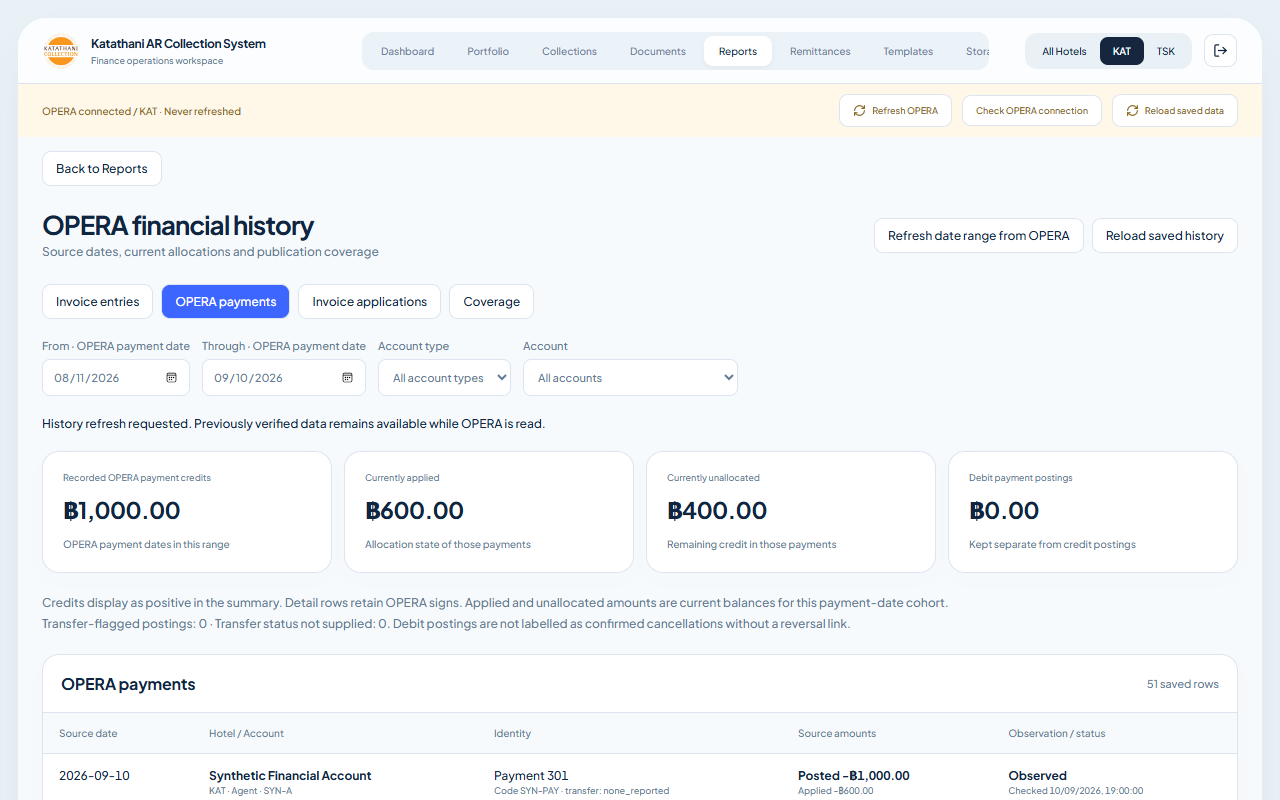
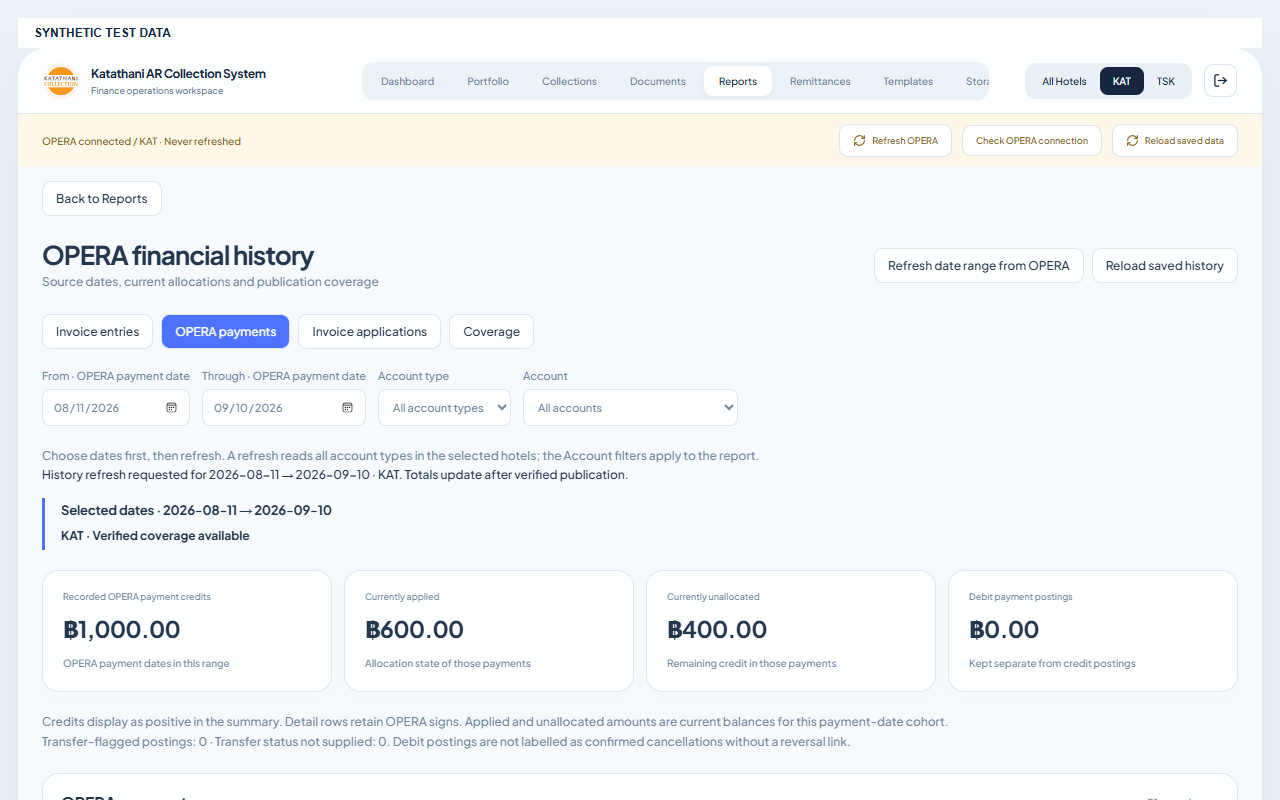
fix: show date-specific financial refresh status and reload published totals

diff --git a/src/reports/FinancialReports.tsx b/src/reports/FinancialReports.tsx
@@ -8,6 +8,8 @@ type Run={id:string;hotel:string;from:string;to:string;status:string;finishedAt:
 const labels:Record<View,string>={invoice_entries:'Invoice entries',payments:'OPERA payments',applications:'Invoice applications',coverage:'Coverage'};
 const amount=(value:string|null|undefined)=>value==null?'—':formatAmount(value);
 const stamp=(value:string|null|undefined)=>value?new Date(value).toLocaleString('en-GB',{timeZone:'Asia/Bangkok'}):'Not recorded';
+const activeRun=(run:Run)=>run.status==='queued'||run.status==='running';
+const runLabel=(run:Run)=>run.status==='queued'?'Queued':run.status==='running'?'Reading OPERA':run.status==='succeeded'?'Finished':'Failed';
 export interface FinancialReportContext {view:View;from:string;to:string;type:string;account:string}
 export default function FinancialReports({token,hotel,onBack,initialContext}:{token:string;hotel:string;onBack:()=>void;initialContext?:FinancialReportContext}){
  const [view,setView]=useState<View>(initialContext?.view??'payments'),[from,setFrom]=useState(initialContext?.from??calendarAdd(thaiToday(),-30)),[to,setTo]=useState(initialContext?.to??thaiToday()),[type,setType]=useState(initialContext?.type??''),[account,setAccount]=useState(initialContext?.account??''),[page,setPage]=useState(0),[revision,setRevision]=useState(0);
@@ -15,15 +17,23 @@ export default function FinancialReports({token,hotel,onBack,initialContext}:{to
  const auth=useRef(token);auth.current=token;const pending=useRef<{key:string;ids:Record<string,string>}|null>(null),previousHotel=useRef(hotel),alive=useRef(true),opened=useRef<string|null>(null);
  useEffect(()=>{alive.current=true;return()=>{alive.current=false;};},[]);
  async function read<T>(path:string,init:RequestInit={}):Promise<T>{const response=await fetch(path,{...init,headers:{Authorization:`Bearer ${auth.current}`,...init.headers}});if(!response.ok)throw Error(response.status===401||response.status===403?'Your session cannot access financial history.':'Financial history is unavailable. The last successful publication is retained.');return response.json() as Promise<T>;}
- useEffect(()=>{if(previousHotel.current!==hotel){previousHotel.current=hotel;setAccount('');setPage(0);}},[hotel]);
+ useEffect(()=>{if(previousHotel.current!==hotel){previousHotel.current=hotel;setAccount('');setPage(0);}setNotice('');},[hotel,from,to]);
  useEffect(()=>{const controller=new AbortController();setOptionsError('');void(async()=>{const all:FinancialAccountOption[]=[];for(let page=0;;page++){const q=new URLSearchParams({page:String(page),limit:'200'});if(hotel!=='All')q.set('hotel',hotel);const result=await read<FinancialReport>('/api/financial/options?'+q,{signal:controller.signal});if(!Array.isArray(result.rows)||!Number.isSafeInteger(result.total)||!result.rows.length&&all.length<result.total)throw Error('Account options are incomplete.');all.push(...result.rows as FinancialAccountOption[]);if(all.length>=result.total)break;}if(!controller.signal.aborted)setOptions(all);})().catch(e=>{if(!controller.signal.aborted)setOptionsError(e instanceof Error?e.message:'Account options are unavailable.');});return()=>controller.abort();},[hotel,revision]);
  const sourceDateLabel=view==='payments'?'OPERA payment date':view==='coverage'?'source period':'OPERA invoice date';
  const invalid=!from||!to||from>to||(Date.parse(to)-Date.parse(from))/86400000>=366;
  useEffect(()=>{const controller=new AbortController();setData(null);setError('');if(invalid)return()=>controller.abort();const q=new URLSearchParams({from,to,page:String(page),limit:'50'});if(hotel!=='All')q.set('hotel',hotel);if(type)q.set('type',type);if(account){try{const [h,a]=JSON.parse(account);if(hotel!=='All'&&h!==hotel)return()=>controller.abort();q.set('hotel',h);q.set('account',a);}catch{return()=>controller.abort();}}void read<FinancialReport>(`/api/financial/${view}?${q}`,{signal:controller.signal}).then(result=>{if(!Array.isArray(result.rows)||!result.summary||!result.coverage)throw Error('Financial response is incomplete.');if(!controller.signal.aborted)setData(result);}).catch(e=>{if(!controller.signal.aborted)setError(e instanceof Error?e.message:'Financial history is unavailable.');});return()=>controller.abort();},[view,hotel,account,type,from,to,page,revision,invalid]);
- useEffect(()=>{const controller=new AbortController();let timer:ReturnType<typeof setTimeout>|undefined;let lastRun='';const refresh=async()=>{try{const next=await read<{enabled:boolean;running:boolean;runs:Run[]}>('/api/financial/status',{signal:controller.signal});if(controller.signal.aborted)return;if(!Array.isArray(next.runs))throw Error();setStatus(next);const marker=next.runs.map(r=>r.id+':'+r.status).join('|');if(lastRun&&lastRun!==marker&&!next.running)setRevision(n=>n+1);lastRun=marker;if(next.running)timer=setTimeout(refresh,15000);}catch{if(!controller.signal.aborted)setStatus(null);}};void refresh();return()=>{controller.abort();clearTimeout(timer);};},[revision]);
+ useEffect(()=>{const controller=new AbortController();let timer:ReturnType<typeof setTimeout>|undefined;let lastPublication:string|undefined;const refresh=async()=>{try{const next=await read<{enabled:boolean;running:boolean;runs:Run[]}>('/api/financial/status',{signal:controller.signal});if(controller.signal.aborted)return;if(!Array.isArray(next.runs))throw Error();setStatus(next);
+  // A completed period can be published while unrelated work remains queued.
+  const marker=next.runs.filter(r=>!activeRun(r)).map(r=>r.id+':'+r.status+':'+r.finishedAt).sort().join('|');
+  if(lastPublication!==undefined&&lastPublication!==marker)setRevision(n=>n+1);lastPublication=marker;if(next.running)timer=setTimeout(refresh,15000);
+ }catch{if(!controller.signal.aborted)setStatus(null);}};void refresh();return()=>{controller.abort();clearTimeout(timer);};},[revision]);
+ const selectedHotels=hotel==='All'?['KAT','TSK']:[hotel];
+ const selectedRuns=selectedHotels.map(h=>({hotel:h,run:status?.runs.find(r=>r.hotel===h&&r.from<=from&&r.to>=to)}));
+ const allSelectedActive=!invalid&&selectedRuns.every(({run})=>run&&activeRun(run));
+ const otherActive=status?.runs.filter(r=>activeRun(r)&&!selectedRuns.some(s=>s.run?.id===r.id))??[];
  async function refreshSource(reason:'backfill'|'open'='backfill'){
-  if(busy||invalid)return;const key=JSON.stringify([hotel,from,to,reason]);if(pending.current?.key!==key)pending.current={key,ids:{}};setBusy(true);setNotice('');setError('');
-  try{for(const h of hotel==='All'?['KAT','TSK']:[hotel]){const commandId=pending.current.ids[h]??crypto.randomUUID();pending.current.ids[h]=commandId;await read('/api/financial/refresh',{method:'POST',headers:{'Content-Type':'application/json'},body:JSON.stringify({commandId,hotel:h,reason,from,to})});}if(alive.current){pending.current=null;setNotice('History refresh requested. Previously verified data remains available while OPERA is read.');setRevision(n=>n+1);}}catch(e){if(alive.current)setError(e instanceof Error?e.message:'Refresh could not be confirmed. Retry the same request.');}finally{if(alive.current)setBusy(false);}
+  if(busy||invalid||allSelectedActive)return;const key=JSON.stringify([hotel,from,to,reason]);if(pending.current?.key!==key)pending.current={key,ids:{}};setBusy(true);setNotice('');setError('');
+  try{for(const h of selectedHotels){const commandId=pending.current.ids[h]??crypto.randomUUID();pending.current.ids[h]=commandId;await read('/api/financial/refresh',{method:'POST',headers:{'Content-Type':'application/json'},body:JSON.stringify({commandId,hotel:h,reason,from,to})});}if(alive.current){pending.current=null;setNotice(`History refresh requested for ${from} → ${to} · ${selectedHotels.join(' / ')}. Totals update after verified publication.`);setRevision(n=>n+1);}}catch(e){if(alive.current)setError(e instanceof Error?e.message:'Refresh could not be confirmed. Retry the same request.');}finally{if(alive.current)setBusy(false);}
  }
  useEffect(()=>{if(status?.enabled&&opened.current!==hotel&&!invalid){opened.current=hotel;void refreshSource('open');}},[status?.enabled,hotel]);
  function change(action:()=>void){action();setPage(0);}
@@ -33,10 +43,12 @@ export default function FinancialReports({token,hotel,onBack,initialContext}:{to
  ]:view==='invoice_entries'?[
   ['Invoice records',data?.coverage.complete?String(summary?.invoiceCount??0):'—','Ordinary, verified source records'],['Original invoice amount',amount(summary?.amount),'Original value for this invoice-date range'],['Unknown amounts / status',data?String(summary?.unknownAmounts??0):'—','Excluded from a confirmed total'],['Not observed again',data?String(summary?.notObserved??0):'—','Previous amount is retained for review']
  ]:[['Current applied amount',amount(summary?.amount),'Current applications for this invoice-date range'],['Linked invoices',data?.coverage.complete?String(summary?.invoiceCount??0):'—','Distinct invoice identities'],['Linked payments',data?.coverage.complete?String(summary?.paymentCount??0):'—','Distinct payment identities'],['Unknown amount / status',data?String(summary?.unknownAmounts??0):'—','No invented application dates']];
- return <main className="page financial-reports"><button onClick={onBack}>Back to Reports</button><header className="financial-title"><div><h1>OPERA financial history</h1><p>Source dates, current allocations and publication coverage</p></div><div><button disabled={busy||invalid||!status?.enabled} onClick={()=>refreshSource()}>{busy?'Requesting…':'Refresh date range from OPERA'}</button><button onClick={()=>setRevision(n=>n+1)}>Reload saved history</button></div></header>
+ return <main className="page financial-reports"><button onClick={onBack}>Back to Reports</button><header className="financial-title"><div><h1>OPERA financial history</h1><p>Source dates, current allocations and publication coverage</p></div><div><button disabled={busy||invalid||!status?.enabled||allSelectedActive} onClick={()=>refreshSource()}>{busy?'Requesting…':allSelectedActive?'Selected range already queued or running':'Refresh date range from OPERA'}</button><button onClick={()=>setRevision(n=>n+1)}>Reload saved history</button></div></header>
   <nav aria-label="Financial report views">{(Object.keys(labels) as View[]).map(v=><button key={v} aria-pressed={view===v} onClick={()=>change(()=>setView(v))}>{labels[v]}</button>)}</nav>
   <div className="financial-filters"><label>From · {sourceDateLabel}<input type="date" value={from} onChange={e=>change(()=>setFrom(e.target.value))}/></label><label>Through · {sourceDateLabel}<input type="date" value={to} onChange={e=>change(()=>setTo(e.target.value))}/></label><label>Account type<select aria-label="Account type" value={type} onChange={e=>change(()=>{setType(e.target.value);setAccount('');})}><option value="">All account types</option>{[...new Set(options.map(o=>o.type))].sort().map(t=><option key={t}>{t}</option>)}</select></label><label>Account<select aria-label="Account" value={account} onChange={e=>change(()=>setAccount(e.target.value))}><option value="">All accounts</option>{options.filter(o=>!type||o.type===type).map(o=><option key={o.hotel+':'+o.accountId} value={JSON.stringify([o.hotel,o.accountId])}>{o.hotel} · {o.name}</option>)}</select></label></div>
-  {invalid&&<p role="alert">Choose a source-date range of 1–366 days.</p>}{optionsError&&<p className="information-note">{optionsError}</p>}{status===null&&<p className="information-note">Refresh status is unavailable.</p>}{status&&!status.enabled&&<p className="information-note">Financial history ingestion is not enabled yet.</p>}{status?.running&&<p role="status">OPERA history refresh is running. Complete results will be published together.</p>}{notice&&<p role="status">{notice}</p>}{error&&<p className="error-message" role="alert">{error}</p>}
+  <p className="financial-basis">Choose dates first, then refresh. A refresh reads all account types in the selected hotels; the Account filters apply to the report.</p>
+  {invalid&&<p role="alert">Choose a source-date range of 1–366 days.</p>}{optionsError&&<p className="information-note">{optionsError}</p>}{status===null&&<p className="information-note">Refresh status is unavailable.</p>}{status&&!status.enabled&&<p className="information-note">Financial history ingestion is not enabled yet.</p>}{notice&&<p role="status">{notice}</p>}{error&&<p className="error-message" role="alert">{error}</p>}
+  {status&&!invalid&&<section className="financial-period-status" aria-label="Refresh for selected dates"><h2>Selected dates · {from} → {to}</h2><div aria-live="polite">{selectedRuns.map(({hotel:h,run})=><p key={h}><strong>{h} · {run?runLabel(run):data?.coverage.complete?'Verified coverage available':'No matching request in recent history'}</strong>{run&&<span> · {run.from} → {run.to}{run.status==='queued'?' · Waiting to start. No need to request again.':run.status==='running'?' · Reading source records and checking payment links.':run.status==='failed'?' · '+(run.error??'Refresh failed').replaceAll('_',' '):' · Check coverage below for verified totals.'}</span>}</p>)}</div>{otherActive.length>0&&<details><summary>Other periods are also queued or running.</summary>{otherActive.map(run=><p key={run.id}>{run.hotel} · {run.from} → {run.to} · {runLabel(run)}</p>)}</details>}</section>}
   {data&&!data.coverage.complete&&view!=='coverage'&&<p className="information-note" role="status">Coverage is incomplete for this range. Observed rows remain visible; an unverified total is shown as —.</p>}
   {view!=='coverage'&&<section className="financial-metrics">{metrics.map(([label,value,note])=><article className="panel" key={label}><small>{label}</small><strong>{value}</strong><p>{note}</p></article>)}</section>}
   {(view==='applications'||view==='invoice_entries')&&!!summary?.mappingUnverified&&<p className="information-note">Applications could not be verified for {summary.mappingUnverified} invoices. Their source invoice and payment records remain available. Review the status in Invoice entries; missing application data is not zero.</p>}
@@ -49,6 +61,6 @@ export default function FinancialReports({token,hotel,onBack,initialContext}:{to
    const invoice=view==='invoice_entries'?row as FinancialInvoiceReportRow:null,payment=view==='payments'?row as FinancialPaymentReportRow:null,application=view==='applications'?row as FinancialApplicationReportRow:null;
    return <tr key={`${row.hotel}:${row.accountId}:${invoice?.transactionId??payment?.transactionId??application?.invoiceTransactionId}:${application?.paymentTransactionId??index}`}><td>{invoice?.transactionDate??payment?.transactionDate??application?.invoiceTransactionDate??'Date unavailable'}</td><td><b>{row.accountName}</b><small>{row.hotel} · {row.accountType} · {row.accountNo??row.accountId}</small></td><td>{invoice?<>Invoice {invoice.invoiceNo??invoice.transactionId}<small>Folio {invoice.folioNo??'Not supplied'} · {invoice.entryClassification}</small></>:payment?<>Payment {payment.transactionId}<small>Code {payment.transactionCode??'Not supplied'} · transfer: {payment.transfer}</small></>:<>Invoice {application?.invoiceNo??application?.invoiceTransactionId}<small>Payment {application?.paymentTransactionId}</small></>}</td><td>{invoice?<><b>Original {amount(invoice.originalAmount)}</b><small>Current open {amount(invoice.openAmount)}</small><small>{invoice.collectionRole}</small>{invoice.mappingError&&<small>Applications unavailable · {invoice.mappingError.replace('financial_mapping_','').replaceAll('_',' ')}</small>}</>:payment?<><b>Posted {amount(payment.amount)}</b><small>Applied {amount(payment.appliedAmount)}</small><small>Unallocated {amount(payment.unallocatedAmount)}</small></>:<><b>Applied {amount(application?.appliedAmount)}</b><small>Application date not supplied</small></>}</td><td><b>{row.sourceStatus==='observed'?'Observed':'Needs review · not observed'}</b><small>Checked {stamp(row.lastCheckedAt)}</small></td></tr>;
   })}</tbody></table></div>{data&&!data.rows.length&&<div className="financial-empty">{data.coverage.complete?'No source records match this range.':'No verified financial history is available for this range yet.'}</div>}{!data&&!error&&!invalid&&<p className="financial-empty" role="status">Loading financial history…</p>}{data&&<footer><span>Page {page+1} · Latest publication {stamp(data.coverage.lastSuccessAt)}</span><div><button disabled={!page} onClick={()=>setPage(n=>n-1)}>Previous financial page</button><button disabled={(page+1)*50>=data.total} onClick={()=>setPage(n=>n+1)}>Next financial page</button></div></footer>}</section>
-  {status&&<section className="panel financial-runs"><h2>Recent refreshes</h2>{status.runs.slice(0,4).map(run=><p key={run.id}>{run.hotel} · {run.from} → {run.to} · {run.status}{run.error?' · '+run.error.replaceAll('_',' '):''}</p>)}{!status.runs.length&&<p>No history refresh has been recorded.</p>}</section>}
+  {status&&<section className="panel financial-runs"><h2>Recent refreshes</h2>{status.runs.map(run=><p key={run.id}>{run.hotel} · {run.from} → {run.to} · {runLabel(run)}{run.error?' · '+run.error.replaceAll('_',' '):''}</p>)}{!status.runs.length&&<p>No history refresh has been recorded.</p>}</section>}
  </main>;
 }

diff --git a/tests/browser/financial-reports.spec.ts b/tests/browser/financial-reports.spec.ts
@@ -2,6 +2,7 @@ import {test,expect,type Page} from '@playwright/test';
 const user={id:'00000000-0000-4000-8000-000000000001',email:'ar@katathani.com',aud:'authenticated',role:'authenticated',app_metadata:{provider:'email'},user_metadata:{},created_at:'2026-09-10T00:00:00Z'};
 async function setup(page:Page,{failure=false,complete=true}={}){
  const requests:{path:string;method:string;body:unknown}[]=[];await page.clock.setFixedTime(new Date('2026-09-10T12:00:00Z'));
+ await page.addInitScript(()=>addEventListener('DOMContentLoaded',()=>{const badge=document.createElement('aside');badge.textContent='SYNTHETIC TEST DATA';badge.style.cssText='padding:8px 16px;color:#10253f;background:white;font:600 12px sans-serif';document.body.insertBefore(badge,document.body.firstChild);}));
  await page.addInitScript(u=>localStorage.setItem('sb-example-auth-token',JSON.stringify({access_token:'synthetic',refresh_token:'synthetic-refresh',expires_at:Math.floor(Date.now()/1000)+86400,token_type:'bearer',user:u})),user);
  await page.route('https://example.supabase.co/**',r=>r.fulfill({json:{user}}));
  await page.route('**/api/**',r=>{const req=r.request(),u=new URL(req.url()),path=u.pathname;requests.push({path:path+u.search,method:req.method(),body:req.method()==='POST'?req.postDataJSON():null});
@@ -19,3 +20,38 @@ async function setup(page:Page,{failure=false,complete=true}={}){
 for(const [width,height] of [[1440,900],[1280,800],[390,844]])test(`financial history ${width}: independent payment and application amounts`,async({page})=>{await page.setViewportSize({width,height});const requests=await setup(page);await page.goto('/?financial=1&hotel=KAT');await expect(page.getByRole('heading',{name:'OPERA financial history',exact:true})).toBeVisible();await expect(page.locator('.financial-metrics')).toContainText('฿1,000.00');await expect(page.locator('.financial-metrics')).toContainText('฿600.00');await expect(page.locator('.financial-metrics')).toContainText('฿400.00');await expect(page.getByRole('region',{name:'Financial source records'})).toContainText('-฿1,000.00');await page.screenshot({path:`evidence/financial-payments-${width}.png`});await page.getByRole('button',{name:'Invoice applications',exact:true}).click();await expect(page.getByText('These are current applications for invoices dated in this range.',{exact:false})).toBeVisible();await expect(page.getByRole('region',{name:'Financial source records'})).toContainText('Application date not supplied');await page.getByRole('button',{name:'Next financial page',exact:true}).click();await expect.poll(()=>requests.some(r=>r.path.includes('/applications?')&&r.path.includes('page=1'))).toBe(true);expect(await page.evaluate(()=>document.documentElement.scrollWidth<=innerWidth+1)).toBe(true);expect(requests.filter(r=>r.method==='POST').every(r=>r.path==='/api/refresh'||r.path==='/api/financial/refresh')).toBe(true);});
 test('missing financial coverage never displays a confirmed zero total',async({page})=>{await setup(page,{complete:false});await page.goto('/?financial=1');await expect(page.getByText('Coverage is incomplete for this range.',{exact:false})).toBeVisible();await expect(page.locator('.financial-metrics strong').first()).toHaveText('—');await expect(page.getByText('No verified financial history is available for this range yet.',{exact:true})).toBeVisible();});
 test('financial API failure is not an empty day',async({page})=>{await setup(page,{failure:true});await page.goto('/?financial=1');await expect(page.getByRole('alert')).toContainText('Financial history is unavailable');await expect(page.getByText('No source records match this range.',{exact:true})).toHaveCount(0);});
+
+test('the selected August range shows queued hotels separately from another running period',async({page})=>{
+ const requests=await setup(page,{complete:false});
+ const run=(id:string,hotel:string,from:string,to:string,status:string)=>({id,hotel,from,to,status,accounts:status==='running'?100:0,finishedAt:null,error:null});
+ await page.route('**/api/financial/status',r=>r.fulfill({json:{enabled:true,running:true,runs:[run('aug-t','TSK','2026-08-01','2026-08-31','queued'),run('aug-k','KAT','2026-08-01','2026-08-31','queued'),run('old-k','KAT','2026-08-12','2026-09-11','running')]}}));
+ await page.goto('/?financial=1');await expect(page.locator('.financial-metrics strong').first()).toHaveText('—');
+ await page.getByLabel('From · OPERA payment date').fill('2026-08-01');await page.getByLabel('Through · OPERA payment date').fill('2026-08-31');
+ const status=page.getByRole('region',{name:'Refresh for selected dates'});
+ await expect(status).toContainText('2026-08-01 → 2026-08-31',{timeout:1000});
+ await expect(status).toContainText('KAT · Queued');await expect(status).toContainText('TSK · Queued');
+ await expect(page.getByRole('button',{name:'Selected range already queued or running'})).toBeDisabled();
+ await expect(page.getByText('Other periods are also queued or running.',{exact:false})).toBeVisible();
+ await page.screenshot({path:'evidence/financial-range-queued-1440.png',animations:'disabled'});
+ await page.getByLabel('From · OPERA payment date').fill('2026-07-01');await page.getByLabel('Through · OPERA payment date').fill('2026-07-31');
+ await expect(status).toContainText('No matching request in recent history');
+ await page.getByRole('button',{name:'Refresh date range from OPERA',exact:true}).click();
+ await expect.poll(()=>requests.filter(r=>r.method==='POST'&&(r.body as {reason?:string})?.reason==='backfill').map(r=>r.body)).toEqual([
+  expect.objectContaining({hotel:'KAT',from:'2026-07-01',to:'2026-07-31'}),expect.objectContaining({hotel:'TSK',from:'2026-07-01',to:'2026-07-31'})
+ ]);
+ await expect(page.getByText('History refresh requested for 2026-07-01 → 2026-07-31',{exact:false})).toBeVisible();
+ await page.getByLabel('Through · OPERA payment date').fill('2026-08-31');
+ await expect(page.getByText('History refresh requested for',{exact:false})).toHaveCount(0);
+});
+
+test('a completed selected range reloads totals while an unrelated history run remains queued',async({page})=>{
+ await setup(page,{complete:false});let completed=false;
+ const selected=['KAT','TSK'].map(hotel=>({id:'aug-'+hotel,hotel,from:'2026-08-01',to:'2026-08-31',status:'running',accounts:2,finishedAt:null,error:null}));
+ await page.route('**/api/financial/status',r=>r.fulfill({json:{enabled:true,running:true,runs:[...selected.map(run=>({...run,status:completed?'succeeded':'running',finishedAt:completed?'2026-09-10T12:01:00Z':null})),{id:'other',hotel:'TSK',from:'2026-09-01',to:'2026-09-10',status:'queued',accounts:0,finishedAt:null,error:null}]}}));
+ await page.route('**/api/financial/payments?**',r=>r.fulfill({json:{rows:[],total:0,coverage:{complete:completed,from:'2026-08-01',to:'2026-08-31'},summary:{paymentTotals:{creditPostings:completed?'1200.00':null,currentlyApplied:null,currentlyUnallocated:null,debitPostings:completed?'0.00':null}}}}));
+ await page.goto('/?financial=1');await page.getByLabel('From · OPERA payment date').fill('2026-08-01');await page.getByLabel('Through · OPERA payment date').fill('2026-08-31');
+ await expect(page.locator('.financial-metrics strong').first()).toHaveText('—');
+ completed=true;await page.clock.fastForward(16000);
+ await expect(page.locator('.financial-metrics strong').first()).toHaveText('฿1,200.00',{timeout:1500});
+ await expect(page.getByText('Coverage is incomplete for this range.',{exact:false})).toHaveCount(0);
+});

diff --git a/src/reports/financial-reports.css b/src/reports/financial-reports.css
@@ -1,1 +1,2 @@
 .financial-title{display:flex;justify-content:space-between;gap:20px;align-items:center;margin:22px 0}.financial-title p,.financial-basis{color:var(--muted);line-height:1.7}.financial-title>div:last-child{display:flex;gap:8px}.financial-reports>nav{display:flex;gap:8px;flex-wrap:wrap;margin:20px 0}.financial-reports>nav button[aria-pressed=true]{background:var(--blue);color:white}.financial-filters{display:flex;gap:12px;flex-wrap:wrap;margin:20px 0}.financial-filters label{display:flex;flex-direction:column;gap:7px;color:var(--muted);font-size:11px}.financial-filters input,.financial-filters select{padding:10px;border:1px solid var(--line);border-radius:8px;background:white;max-width:300px;color:inherit}.financial-metrics{display:grid;grid-template-columns:repeat(4,minmax(0,1fr));gap:12px;margin:20px 0}.financial-metrics article{padding:20px}.financial-metrics small{display:block;color:var(--muted)}.financial-metrics strong{display:block;font-size:23px;letter-spacing:-.7px;margin:12px 0;overflow-wrap:anywhere}.financial-metrics p{font-size:10px;color:var(--muted);line-height:1.6}.financial-list{margin:20px 0;overflow:hidden}.financial-list header,.financial-list footer{padding:18px;display:flex;justify-content:space-between;align-items:center;gap:12px}.financial-list h2,.financial-runs h2{font-size:16px}.financial-list header span,.financial-list footer span{color:var(--muted);font-size:11px}.financial-table-scroll{overflow:auto}.financial-list table{width:100%;min-width:820px;border-collapse:collapse}.financial-list th,.financial-list td{padding:14px 16px;border-bottom:1px solid var(--line);text-align:left;vertical-align:top;font-size:12px}.financial-list th{background:var(--surface);font-size:10px;color:var(--muted)}.financial-list small{display:block;color:var(--muted);line-height:1.7;max-width:280px;overflow-wrap:anywhere}.financial-list footer>div{display:flex;gap:8px}.financial-empty{padding:36px;color:var(--muted);text-align:center}.financial-runs{padding:20px}.financial-runs p{line-height:1.7;color:var(--muted)}@media(max-width:1000px){.financial-metrics{grid-template-columns:repeat(2,minmax(0,1fr))}.financial-title{align-items:flex-start;flex-direction:column}}@media(max-width:600px){.financial-title>div:last-child{flex-wrap:wrap}.financial-metrics article{padding:15px}.financial-metrics strong{font-size:20px}.financial-list footer{align-items:flex-start;flex-direction:column}.financial-filters{display:grid;grid-template-columns:1fr 1fr}.financial-filters select,.financial-filters input{width:100%;min-width:0}.financial-reports button{min-height:44px}.financial-filters label:last-child{grid-column:1/-1}}
+.financial-period-status{border-left:3px solid var(--blue);padding:4px 16px;margin:16px 0}.financial-period-status h2{font-size:13px;margin-bottom:8px}.financial-period-status p,.financial-period-status summary{font-size:12px;line-height:1.7}.financial-period-status span{color:var(--muted)}.financial-period-status details{margin-top:8px}.financial-period-status summary{cursor:pointer}

diff --git a/docs/PROJECT_STATUS.md b/docs/PROJECT_STATUS.md
@@ -1,5 +1,13 @@
 # สถานะโครงการใหม่
 
+## Checkpoint Financial range status — 11 กันยายน 2026
+
+- เจ้าของสั่ง backfill 1–31 สิงหาคมแล้วทั้ง KAT/TSK เวลา 13:41 ICT; ตรวจ Supabase และ Cloudflare ตรงกันว่า queued หลังงานช่วงอื่น. รอบก่อนหน้ามีบัญชีที่ต้องตรวจ payment links จำนวนมาก; ตรวจ step ใหม่เดินต่อและบันทึก mapping batches เพิ่ม ไม่ใช่ workflow หยุด. ยังไม่อ้างว่า August coverage ครบ
+- พบ UI bug: report จะ reload หลัง status เปลี่ยนเมื่อ global queue ว่างเท่านั้น ทำให้ publication ของช่วงที่เลือกอาจไม่ขึ้นขณะที่ช่วงอื่นยังทำงาน. แก้ให้โหลดใหม่เมื่อมี run สิ้นสุดโดยไม่รอ global queue; คง server-side coverage gate และ unknown totals เป็น —
+- เพิ่มสถานะตามช่วงวันที่และโรงแรม แยก Queued/Reading OPERA/Finished/Failed กับงานช่วงอื่น; ป้องกันกดซ้ำเมื่อทั้ง scope มีงานอยู่แล้ว. Notice ระบุวันที่ที่ส่งจริงและล้างเมื่อเปลี่ยนช่วง. แสดง recent runs ครบที่ API คืนมา และบอกให้เลือกวันก่อนกด refresh
+- Regression สองกรณีล้มเหลวก่อนแก้และผ่านหลังแก้. Full unit 811/87 files และ typecheck/build ผ่าน; local browser Financial Reports + Dashboard 19 cases ผ่าน รวม date payload, other-range queue, publication ขณะคิวยังไม่ว่าง, missing coverage, unavailable API, 1440/1280/390. ภาพทดสอบ synthetic เท่านั้น
+- กำลัง Push/Deploy UI fix; ไม่มี migration, queue restart, เพิ่ม concurrency, OPERA accounting write หรือการสร้างคำขอ backfill ซ้ำจากการตรวจครั้งนี้
+
 ## Checkpoint Account comparison — 11 กันยายน 2026
 
 - แก้ Portfolio ที่แยก Account เดียวกันเป็นคนละแถว KAT/TSK: live source มี Account No. ตรงกันแต่ไม่มี explicit group จึงเคยตกไปใช้ Hotel + internal ID. ข้อมูลตรวจแบบ read-only มี 175 operational accounts, 69 คู่ที่ Account No. ตรงกัน และไม่พบเลขซ้ำภายในโรงแรม
